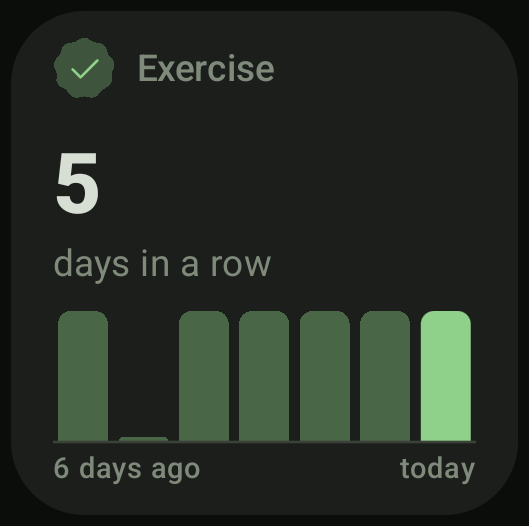
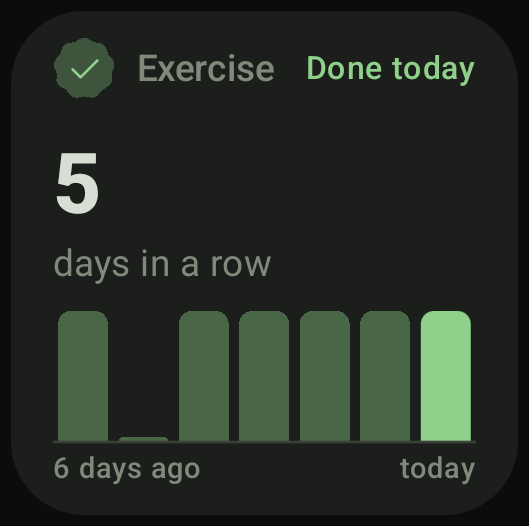
Widgets: a note at the end of the title line; the habit card says "Done today"
- WidgetBase.note: a few words (16 at most) at the end of a card's title
  line, in the card's colour. A list's "+3 more" and the content's age or
  "Failed 10:42" come first. A screen reader hears it after the title. It
  is stored with the card (WidgetJson) and parsed like the other fields.
- habit.lua 1.1 sends "Done today" once today is marked; it needs 0.5.11.
- Tests: parsing, the round trip, the card, and both habit tests. The
  gallery's habit card and the website's pictures show it.

Changed region(s): [[0.5747, 0.0913, 0.9074, 0.1521]]

diff --git a/app/src/test/java/com/mtwabpin/kolahal/widgets/WidgetParserTest.kt b/app/src/test/java/com/mtwabpin/kolahal/widgets/WidgetParserTest.kt
@@ -47,6 +47,14 @@ class WidgetParserTest {
         assertEquals("widget: value is needed: the big value, as text or a number", refused(mapOf("label" to "unlocks")))
     }
 
+    /** Any card can have a note at the end of its title line: a few words, cut at 16 characters. */
+    @Test fun aNoteIsAFewWordsForTheTitleLine() {
+        assertEquals(WidgetBase(note = "Done today"), parse(mapOf("value" to "5", "note" to "Done today")).base)
+        assertEquals("Waiting since 1…", parse(mapOf("value" to "5", "note" to "Waiting since 10:42")).base.note)
+        assertEquals("3", parse(mapOf("value" to "5", "note" to 3.0)).base.note)
+        assertEquals(null, parse(mapOf("value" to "5", "note" to null)).base.note)
+    }
+
     @Test fun aTextKeepsItsLineBreaks() {
         val spec = parse(mapOf("text" to "  one\r\ntwo  ", "caption" to "a\nb"), WidgetKind.TEXT)
         assertEquals(WidgetSpec.Text(WidgetBase(), text = "one\ntwo", caption = "a b"), spec)
@@ -299,7 +307,7 @@ class WidgetParserTest {
         assertEquals(false, WidgetJson.encode(spec).contains("\"id\""))
         assertEquals(spec, WidgetJson.decode(WidgetJson.encode(spec)))
         // Only an event has it. Anywhere else it is an unknown field, as before.
-        assertEquals("widget: an agenda widget has no field 'id'; use kind, title, icon, color, tap, staleAfter, refresh, events, days, empty", refused(mapOf("id" to 1, "events" to rows), WidgetKind.AGENDA))
+        assertEquals("widget: an agenda widget has no field 'id'; use kind, title, icon, color, tap, staleAfter, refresh, note, events, days, empty", refused(mapOf("id" to 1, "events" to rows), WidgetKind.AGENDA))
         assertEquals("widget: item 1 of items: no field 'id'; use title, detail, trailing, icon, color, tap, done", refused(mapOf("items" to listOf(mapOf("id" to 1, "title" to "a"))), WidgetKind.LIST))
     }
 
@@ -369,7 +377,7 @@ class WidgetParserTest {
         assertEquals("widget: alt is needed: what the picture shows, in words, for a screen reader", noImage("image" to link, "alt" to "  "))
         assertEquals("widget: alt must be text, not a table", noImage("image" to link, "alt" to mapOf("en" to "a")))
         assertEquals("widget: fit must be crop or fit, not 'stretch'", noImage("image" to link, "alt" to "a", "fit" to "stretch"))
-        assertEquals("widget: an image widget has no field 'src'; use kind, title, icon, color, tap, staleAfter, refresh, image, alt, caption, fit", noImage("src" to link, "alt" to "a"))
+        assertEquals("widget: an image widget has no field 'src'; use kind, title, icon, color, tap, staleAfter, refresh, note, image, alt, caption, fit", noImage("src" to link, "alt" to "a"))
     }
 
     /** The picture's link goes through the host, as a tap's link does: what the host returns is checked and stored. */
@@ -614,12 +622,12 @@ class WidgetParserTest {
 
     @Test fun anUnknownFieldListsTheKnownOnes() {
         assertEquals(
-            "widget: a stat widget has no field 'colour'; use kind, title, icon, color, tap, staleAfter, refresh, value, label, unit, delta, trend, more, progress, moving",
+            "widget: a stat widget has no field 'colour'; use kind, title, icon, color, tap, staleAfter, refresh, note, value, label, unit, delta, trend, more, progress, moving",
             refused(mapOf("value" to 1, "colour" to "good")),
         )
         // Another kind's field is unknown too.
         assertEquals(
-            "widget: a text widget has no field 'value'; use kind, title, icon, color, tap, staleAfter, refresh, text, caption",
+            "widget: a text widget has no field 'value'; use kind, title, icon, color, tap, staleAfter, refresh, note, text, caption",
             refused(mapOf("text" to "a", "value" to 1), WidgetKind.TEXT),
         )
         assertEquals(

diff --git a/app/src/main/java/com/mtwabpin/kolahal/ui/ScriptWidgets.kt b/app/src/main/java/com/mtwabpin/kolahal/ui/ScriptWidgets.kt
@@ -233,9 +233,11 @@ internal fun WidgetCard(
  *   first letter of the title ([WidgetWords.badgeLetter]). It is 24 dp in a large card and 20 dp
  *   in a wide one. A small card has no title line, so no badge.
  * - Large: the title line, the content, and the footer as the last line. The title line ends with
- *   "+3 more" from a list or an agenda ([LocalMoreNote]).
+ *   "+3 more" from a list or an agenda ([LocalMoreNote]), or else with the script's note
+ *   ([WidgetBase.note]).
  * - A cropped picture, large or wide, covers the whole card ([BleedImageCard]).
- * - Wide: the title line with "+3 more" and the footer at its end, then the content. Without the title line
+ * - Wide: the title line with "+3 more" (or the note, when there is no footer) and the footer at
+ *   its end, then the content. Without the title line
  *   there is no place for the footer. A screen reader still hears both.
  */
 @Composable
@@ -262,7 +264,7 @@ private fun CardLayout(
     val setMore: (String?) -> Unit = remember { { more = it } }
     when (box) {
         WidgetSizes.Box.LARGE -> Column(Modifier.fillMaxSize().padding(horizontal = 16.dp, vertical = 10.dp)) {
-            TitleLine(title, spec, badge, 24.dp, type.titleSmall) { MoreNote(more) }
+            TitleLine(title, spec, badge, 24.dp, type.titleSmall) { if (more != null) MoreNote(more) else TitleNote(spec?.base) }
             // Room between the title and the content, so a list doesn't sit on the title. A 4×2 card still fits three
             // 44 dp rows: 10 + 24 + 12 + 136 + 10 = 192 dp.
             Spacer(Modifier.height(12.dp))
@@ -273,7 +275,8 @@ private fun CardLayout(
         }
         WidgetSizes.Box.WIDE -> Column(Modifier.fillMaxSize().padding(horizontal = 16.dp, vertical = 12.dp)) {
             if (titled) TitleLine(title, spec, badge, 20.dp, type.labelMedium) {
-                MoreNote(more)
+                // The age or "Failed 10:42" says more than the note, and "+3 more" too: then the note waits.
+                if (more != null) MoreNote(more) else if (footer == null) TitleNote(spec?.base)
                 if (footer != null) FooterLine(footer, Modifier.padding(start = 8.dp))
             }
             Box(Modifier.weight(1f).fillMaxWidth()) {
@@ -317,6 +320,13 @@ private fun BleedImageCard(title: String, spec: WidgetSpec.Image, footer: Widget
 @Composable
 private fun MoreNote(text: String?) {
     if (text != null) Text(text, style = MaterialTheme.typography.labelMedium, color = MaterialTheme.colorScheme.onSurfaceVariant, maxLines = 1, softWrap = false, modifier = Modifier.padding(start = 8.dp))
+}
+
+/** The script's note at the end of the title line ([WidgetBase.note]): "Done today", in the card's colour. */
+@Composable
+private fun TitleNote(base: WidgetBase?) {
+    val note = base?.note ?: return
+    Text(note, style = MaterialTheme.typography.labelMedium, color = roleColour(base), maxLines = 1, softWrap = false, modifier = Modifier.padding(start = 8.dp))
 }
 
 /**

diff --git a/app/src/test/java/com/mtwabpin/kolahal/script/LibraryWidgetsTest.kt b/app/src/test/java/com/mtwabpin/kolahal/script/LibraryWidgetsTest.kt
@@ -130,12 +130,12 @@ class LibraryWidgetsTest {
      * Once today is done the card is in the good colour; before that it gives no colour.
      */
     @Test fun habit() {
-        fun week(streak: Double, vararg days: Double, label: String, summary: String, color: String?) = fromLua(
+        fun week(streak: Double, vararg days: Double, label: String, summary: String, color: String?, note: String? = null) = fromLua(
             "habit.lua",
             luaTable(
                 "title" to "Exercise", "value" to streak, "label" to label, "points" to luaList(*days.toTypedArray()), "style" to "bars",
                 "min" to 0.0, "max" to 1.0, "labels" to luaList("Sun", "Today"), "summary" to summary, "color" to color,
-                "tap" to luaTable("args" to "done", "label" to "Done today"),
+                "note" to note, "tap" to luaTable("args" to "done", "label" to "Done today"),
             ),
         )
         val tap = WidgetTap(args = "done", label = "Done today")
@@ -148,8 +148,9 @@ class LibraryWidgetsTest {
             ),
             week(4.0, 1.0, 0.0, 1.0, 1.0, 1.0, 1.0, 0.0, label = "days in a row", summary = open, color = null),
         )
-        val done = week(5.0, 1.0, 0.0, 1.0, 1.0, 1.0, 1.0, 1.0, label = "days in a row", summary = open.replace("not yet", "done"), color = "good") as WidgetSpec.Chart
-        assertEquals(listOf("5", StyledText.Colour.GOOD, 1f), listOf(done.value, done.base.color, done.points.last()))
+        val done = week(5.0, 1.0, 0.0, 1.0, 1.0, 1.0, 1.0, 1.0, label = "days in a row", summary = open.replace("not yet", "done"), color = "good", note = "Done today") as WidgetSpec.Chart
+        // Done today: the good colour, and the title line ends with "Done today".
+        assertEquals(listOf("5", StyledText.Colour.GOOD, 1f, "Done today"), listOf(done.value, done.base.color, done.points.last(), done.base.note))
         // No day is done yet: every bar is at the bottom of the scale.
         val none = "Sun missed, Mon missed, Tue missed, Wed missed, Thu missed, Fri missed, Today not yet"
         val new = week(0.0, 0.0, 0.0, 0.0, 0.0, 0.0, 0.0, 0.0, label = "days in a row", summary = none, color = null) as WidgetSpec.Chart

diff --git a/app/src/main/java/com/mtwabpin/kolahal/widgets/WidgetSpec.kt b/app/src/main/java/com/mtwabpin/kolahal/widgets/WidgetSpec.kt
@@ -67,7 +67,10 @@ enum class WidgetKind(val id: String, val size: WidgetSize, val script: Boolean 
  */
 data class WidgetTap(val args: String? = null, val url: String? = null, val label: String? = null, val toLog: Boolean = false)
 
-/** The fields every kind has. All are optional. [staleAfter] and [refresh] are in seconds. */
+/**
+ * The fields every kind has. All are optional. [staleAfter] and [refresh] are in seconds.
+ * [note] is a short text at the end of the title line, in the card's colour: "Done today".
+ */
 data class WidgetBase(
     val title: String? = null,
     val icon: String? = null,
@@ -75,6 +78,7 @@ data class WidgetBase(
     val tap: WidgetTap? = null,
     val staleAfter: Int? = null,
     val refresh: Int? = null,
+    val note: String? = null,
 )
 
 /**
@@ -372,6 +376,7 @@ object WidgetJson {
             "tap" to base.tap?.let(::tapMap),
             "staleAfter" to base.staleAfter,
             "refresh" to base.refresh,
+            "note" to base.note,
         )
         val own = when (spec) {
             is WidgetSpec.Stat -> fields(
@@ -547,6 +552,7 @@ object WidgetJson {
             tap = m.tap("tap"),
             staleAfter = m.number("staleAfter")?.toInt()?.coerceIn(MIN_STALE, MAX_STALE),
             refresh = m.number("refresh")?.toInt()?.coerceIn(MIN_REFRESH, MAX_REFRESH),
+            note = m.text("note"),
         )
         return when (kind) {
             WidgetKind.STAT -> WidgetSpec.Stat(

diff --git a/app/src/androidTest/java/com/mtwabpin/kolahal/script/LibraryScriptsTest.kt b/app/src/androidTest/java/com/mtwabpin/kolahal/script/LibraryScriptsTest.kt
@@ -794,7 +794,7 @@ class LibraryScriptsTest {
         // The tap marks today done: the streak is 3, in the good colour, and nothing is logged.
         run("habit.lua", "done", event = tap, before = luaKeepsShown)
         assertEquals(emptyList<LogEntry>(), lines())
-        assertEquals(listOf(3.0, 1.0, "good"), card().let { listOf(it["value"], (it["points"] as List<*>).last(), it["color"]) })
+        assertEquals(listOf(3.0, 1.0, "good", "Done today"), card().let { listOf(it["value"], (it["points"] as List<*>).last(), it["color"], it["note"]) })
         assertEquals(days(4, 2, 1, 0), store.get("days"))
         // A second tap changes nothing.
         run("habit.lua", "done", event = tap, before = luaKeepsShown)
@@ -804,7 +804,7 @@ class LibraryScriptsTest {
         // Typed, it marks and unmarks today too, and logs the streak and the week.
         run("habit.lua", "undo", before = luaKeepsShown)
         assertEquals(Triple("Exercise", "2 days in a row\n${week(4, 2, 1)}", null), plainOnly())
-        assertEquals(listOf(2.0, null), card().let { listOf(it["value"], it["color"]) })
+        assertEquals(listOf(2.0, null, null), card().let { listOf(it["value"], it["color"], it["note"]) })
         assertEquals(days(4, 2, 1), store.get("days"))
         run("habit.lua", "done", options = mapOf("name" to "Read"))
         assertEquals(Triple("Read", "3 days in a row\n${week(4, 2, 1, 0)}", null), plainOnly())

diff --git a/app/src/main/java/com/mtwabpin/kolahal/widgets/WidgetParser.kt b/app/src/main/java/com/mtwabpin/kolahal/widgets/WidgetParser.kt
@@ -24,6 +24,9 @@ import com.mtwabpin.kolahal.script.Json
  */
 object WidgetParser {
     const val MAX_TITLE = 40
+
+    /** A note at the end of the title line ([WidgetBase.note]): a few words, such as "Done today". */
+    const val MAX_NOTE = 16
     const val MAX_ICON = 4
 
     /** The longest text read for an icon: room for a name ([WidgetIcons]). */
@@ -93,7 +96,7 @@ object WidgetParser {
     const val MIN_REFRESH = 10
     const val MAX_REFRESH = 3_600
 
-    private val COMMON = listOf("kind", "title", "icon", "color", "tap", "staleAfter", "refresh")
+    private val COMMON = listOf("kind", "title", "icon", "color", "tap", "staleAfter", "refresh", "note")
     private val TAP = listOf("args", "url", "label", "page")
     private val STAT = listOf("value", "label", "unit", "delta", "trend", "more", "progress", "moving")
     private val SMALL = listOf("value", "label")
@@ -183,6 +186,7 @@ object WidgetParser {
             tap = t.tap(),
             staleAfter = t.seconds("staleAfter", MIN_STALE, MAX_STALE),
             refresh = t.seconds("refresh", MIN_REFRESH, MAX_REFRESH),
+            note = t.text("note", MAX_NOTE),
         )
         return when (kind) {
             WidgetKind.STAT -> stat(t, base)

diff --git a/app/src/main/java/com/mtwabpin/kolahal/script/ApiDocs.kt b/app/src/main/java/com/mtwabpin/kolahal/script/ApiDocs.kt
@@ -41,7 +41,7 @@ object ApiDocs {
      */
     private val WIDGET_SHOW = "Fill this script's widget (it needs an @widget line); true when you placed it, false when it was only checked. " +
         WidgetKind.forScripts.joinToString(" ") { "${it.id}: ${widgetFields(it)}." } + " " +
-        "Every kind: title, icon, color, tap ({ args } runs this script again, { url } opens a link), staleAfter, refresh (seconds). " +
+        "Every kind: title, icon, color, tap ({ args } runs this script again, { url } opens a link), staleAfter, refresh (seconds), note (a few words at the end of the title line). " +
         "An unknown field is an error"
 
     /** The fields of a [kind] widget, as the reference lists them. Only the kinds a script can use are asked for. */

diff --git a/app/src/androidTest/java/com/mtwabpin/kolahal/ui/ScriptWidgetCardTest.kt b/app/src/androidTest/java/com/mtwabpin/kolahal/ui/ScriptWidgetCardTest.kt
@@ -170,6 +170,14 @@ class ScriptWidgetCardTest {
         compose.onAllNodes(inCard(name) and hasClickAction()).assertCountEquals(0)
     }
 
+    /** A note ends the title line, and a screen reader hears it after the title. */
+    @Test fun aNoteEndsTheTitleLine() {
+        val name = kept("note", WidgetSpec.Stat(WidgetBase(title = "Exercise", note = "Done today"), "5", label = "days in a row"))
+        show(name)
+        draws(name, "Exercise", "Done today", "5", "days in a row")
+        says(name, "Exercise, Done today: 5, days in a row")
+    }
+
     /** A card of one cell has room for the value and its label only. A screen reader still hears everything. */
     @Test fun aSmallCardLeavesPartsOutAndStillSaysThem() {
         val name = kept(

diff --git a/app/src/androidTest/java/com/mtwabpin/kolahal/ui/WidgetGalleryTest.kt b/app/src/androidTest/java/com/mtwabpin/kolahal/ui/WidgetGalleryTest.kt
@@ -459,7 +459,7 @@ class WidgetGalleryTest {
             ),
             Shot(
                 "habit", WidgetSize.S2X2, "Exercise",
-                WidgetSpec.Chart(base("Exercise", "check", Colour.GOOD), listOf(1f, 0f, 1f, 1f, 1f, 1f, 1f), style = "bars", min = 0f, max = 1f, value = "5", label = "days in a row", labels = ago),
+                WidgetSpec.Chart(base("Exercise", "check", Colour.GOOD).copy(note = "Done today"), listOf(1f, 0f, 1f, 1f, 1f, 1f, 1f), style = "bars", min = 0f, max = 1f, value = "5", label = "days in a row", labels = ago),
             ),
             Shot(
                 "quicktoggles", WidgetSize.S4X1, "Quick toggles",

diff --git a/app/src/main/java/com/mtwabpin/kolahal/ui/WidgetKinds.kt b/app/src/main/java/com/mtwabpin/kolahal/ui/WidgetKinds.kt
@@ -329,7 +329,9 @@ internal object WidgetWords {
         }
         // A few fields may be styled ([WidgetParser.STYLED]). A screen reader hears their plain words.
         val said = StyledText.plain(parts.filterNot { it.isNullOrBlank() }.joinToString(", "))
-        return if (title.isNullOrBlank()) said else "$title: $said"
+        // The note at the end of the title line ("Done today") is said after the title.
+        val heading = listOfNotNull(title?.takeIf { it.isNotBlank() }, spec.base.note).joinToString(", ")
+        return if (heading.isEmpty()) said else "$heading: $said"
     }
 
     /**

diff --git a/app/src/test/java/com/mtwabpin/kolahal/widgets/WidgetRoundTripTest.kt b/app/src/test/java/com/mtwabpin/kolahal/widgets/WidgetRoundTripTest.kt
@@ -27,6 +27,7 @@ class WidgetRoundTripTest {
         "tap" to mapOf("args" to "now", "label" to "Refresh"),
         "staleAfter" to 7200,
         "refresh" to 600,
+        "note" to "Done today",
     )
 
     @Test fun stat() = roundTrip(
